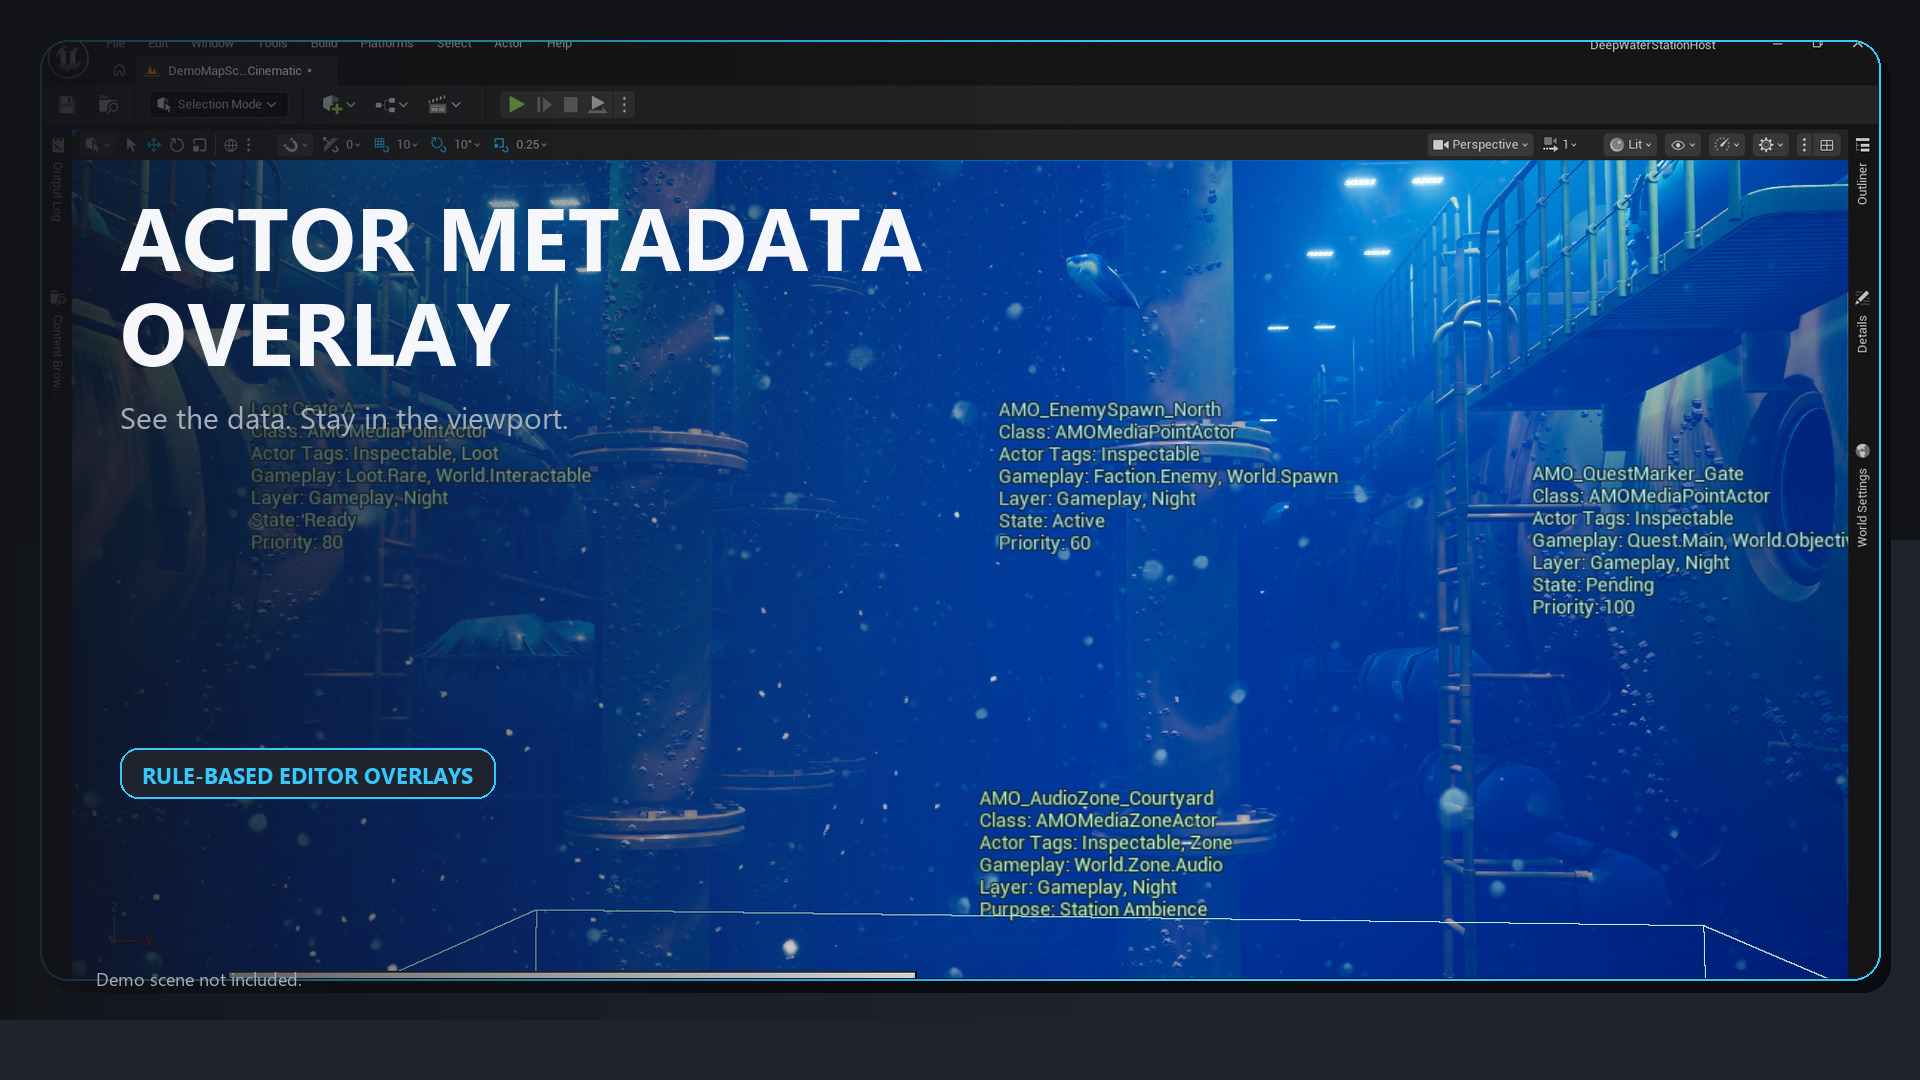
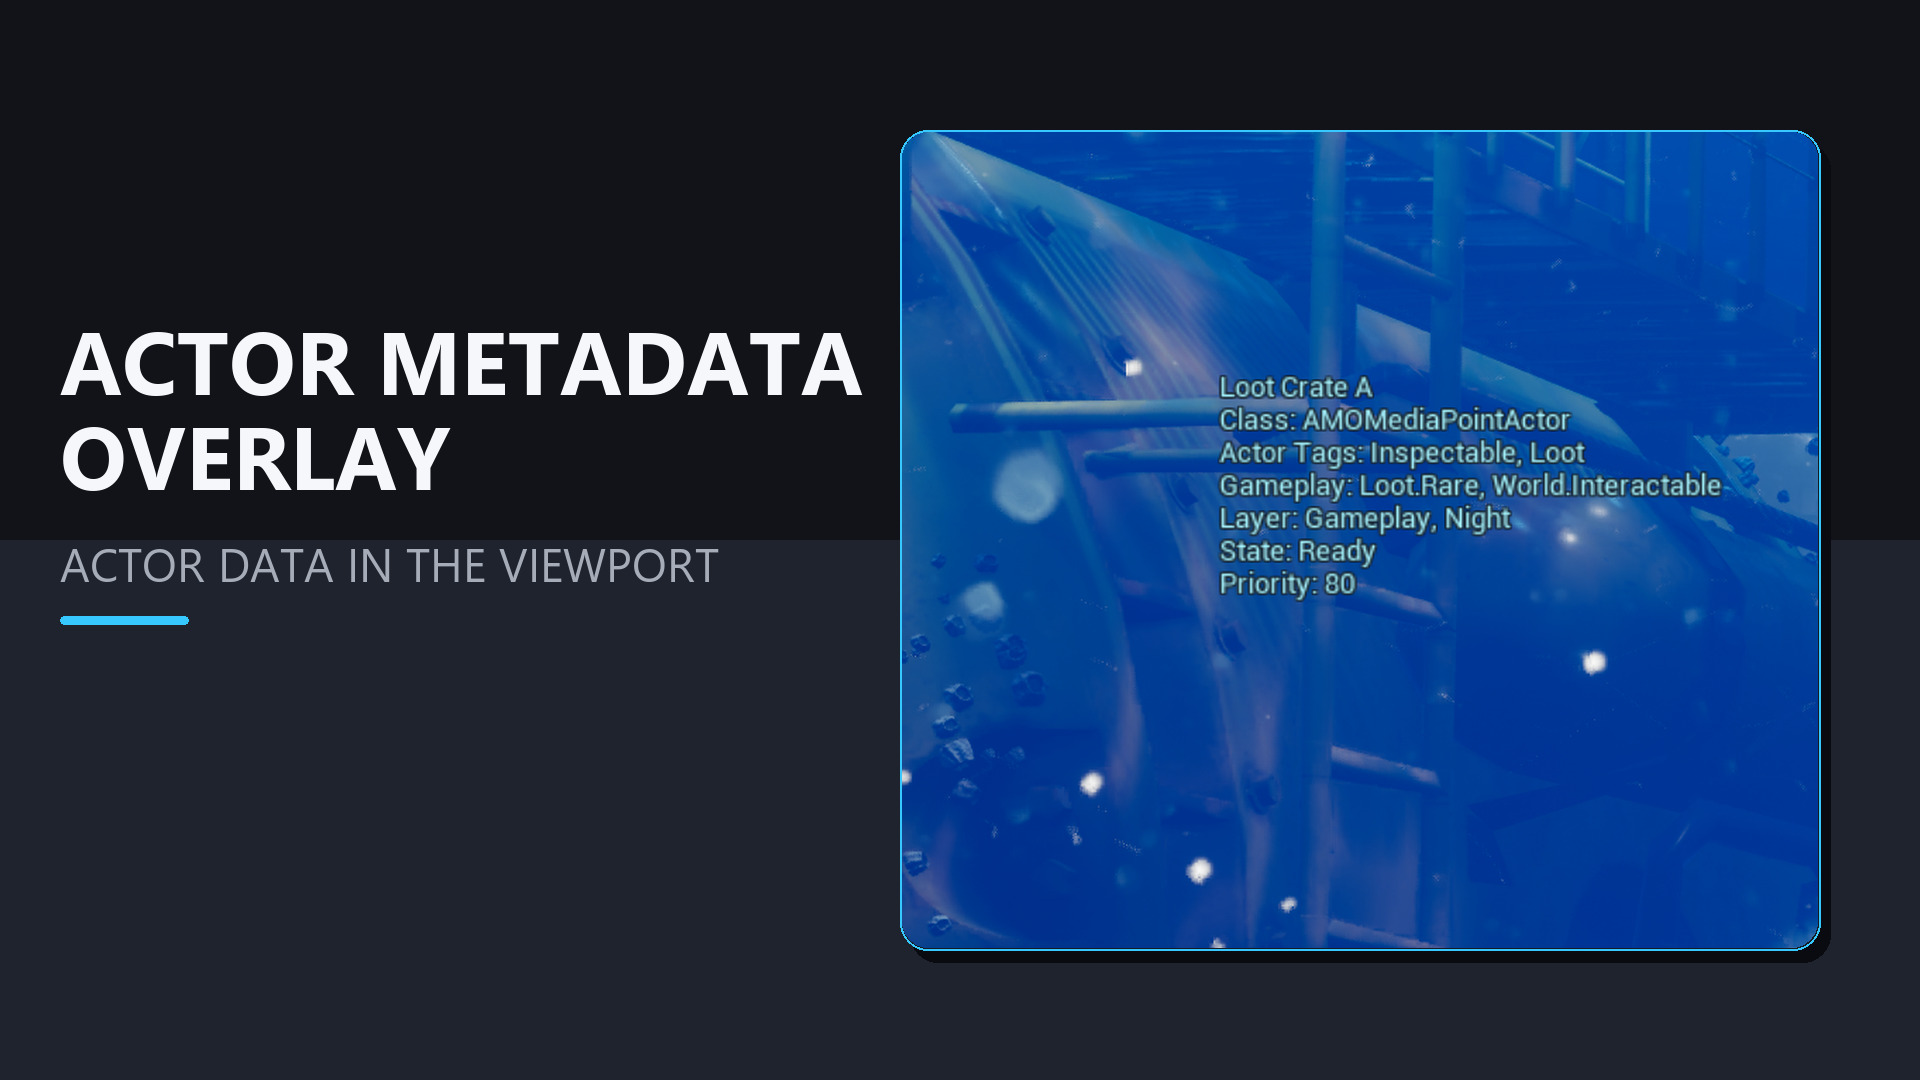
docs: optimize Hero thumbnail readability

diff --git a/Marketing/Fab/source/generate-fab-media.py b/Marketing/Fab/source/generate-fab-media.py
@@ -29,14 +29,13 @@ MEDIA = [
         "order": 1,
         "filename": "01-actor-metadata-overlay-hero.jpg",
         "role": "thumbnail",
-        "layout": "B",
+        "layout": "Hero",
         "source": "hero-all.png",
-        "displaySource": "readable/hero-all.png",
-        "displayCrop": "readableFull",
-        "crop": "viewport",
+        "crop": "heroTight",
+        "displayCrop": "heroTight",
         "title": "ACTOR METADATA\nOVERLAY",
-        "tagline": "See the data. Stay in the viewport.",
-        "proof": "RULE-BASED EDITOR OVERLAYS",
+        "tagline": "ACTOR DATA IN THE VIEWPORT",
+        "proof": "",
     },
     {
         "order": 2,
@@ -258,11 +257,13 @@ def draw_tagline(
     tagline: str,
     box: tuple[int, int, int, int],
     start_y: int,
+    size_name: str = "tagline",
+    max_lines: int = 2,
 ) -> int:
     x, _, width, _ = box
-    used_font = font("regular", "tagline")
-    lines = wrap_text(draw, tagline, used_font, width, 2)
-    line_height = SIZES["tagline"] + 8
+    used_font = font("regular", size_name)
+    lines = wrap_text(draw, tagline, used_font, width, max_lines)
+    line_height = SIZES[size_name] + 8
     for index, line in enumerate(lines):
         draw.text(
             (x, start_y + index * line_height),
@@ -378,6 +379,31 @@ def layout_b(spec: dict, screenshot: Image.Image) -> Image.Image:
     draw_tagline(draw, spec["tagline"], text_box, text_end + 30)
     draw_proof(draw, spec["proof"], text_box[0], LAYOUT["layouts"]["B"]["proofY"], text_box[2], color("accent"))
     draw_brand_disclaimer(draw)
+    return image
+
+
+def layout_hero(spec: dict, screenshot: Image.Image) -> Image.Image:
+    """Render the thumbnail-first Hero with only product title and one-line promise."""
+    image = base_canvas()
+    layout = LAYOUT["layouts"]["Hero"]
+    screenshot_card(image, screenshot, tuple(layout["screenshot"]), color("accent"))
+    draw = ImageDraw.Draw(image)
+    text_box = tuple(layout["text"])
+    text_end = draw_title(draw, spec["title"], text_box, "heroTitle")
+    draw_tagline(
+        draw,
+        spec["tagline"],
+        text_box,
+        text_end + layout["taglineGap"],
+        size_name="heroTagline",
+        max_lines=1,
+    )
+    line_y = text_end + layout["taglineGap"] + SIZES["heroTagline"] + 38
+    draw.rounded_rectangle(
+        (text_box[0], line_y, text_box[0] + layout["accentLineWidth"], line_y + layout["accentLineHeight"]),
+        radius=layout["accentLineHeight"] // 2,
+        fill=color("accent"),
+    )
     return image
 
 
@@ -666,7 +692,9 @@ def main() -> None:
                 spec.get("displayCrop", spec["crop"]),
                 spec.get("displaySource"),
             )
-            if spec["layout"] == "A":
+            if spec["layout"] == "Hero":
+                rendered = layout_hero(spec, screenshot)
+            elif spec["layout"] == "A":
                 rendered = layout_a(spec, screenshot)
             elif spec["layout"] == "B":
                 rendered = layout_b(spec, screenshot)
